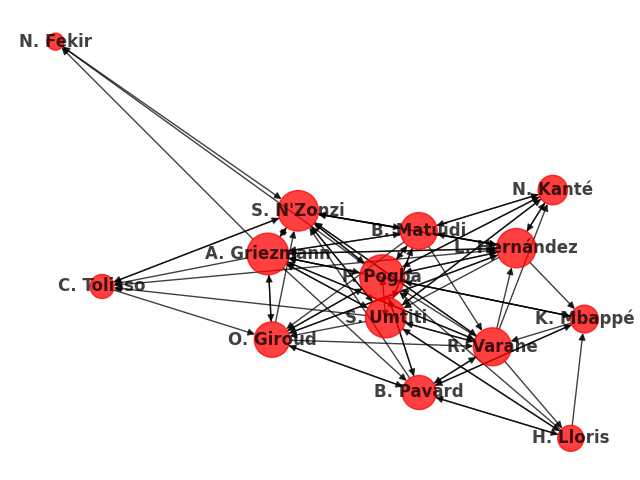
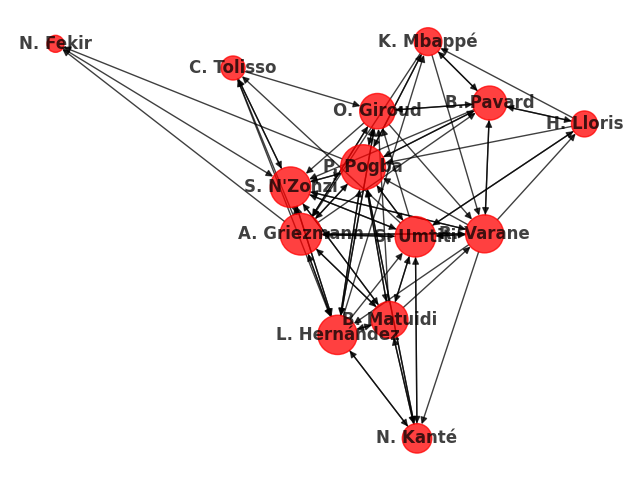
fixed pusnik shit

diff --git a/src/graph_construction.py b/src/graph_construction.py
@@ -211,12 +211,11 @@ if __name__ == '__main__':
     #         measures = social_network_analysis_digraph(G2, match_result, match_id, False, measures)
     #         measures = social_network_analysis_graph(G2, match_id, measures)
 
-   # G1, G2, match_result, measures = passing_networks(nation, matches, competitions, events, '2058017', measures)
-   # social_network_analysis_digraph(G1, match_result, '2058017', False, measures)
-   # social_network_analysis_graph(G1, '2058017', measures)
-   # plot_passing_networks(G1, G2, True)
+    G1, G2, match_result, measures = passing_networks(nation, matches, competitions, events, '2058017', measures)
+    social_network_analysis_digraph(G1, match_result, '2058017', False, measures)
+    social_network_analysis_graph(G1, '2058017', measures)
+    plot_passing_networks(G1, G2, True)
 
-    #
     print('\nmax_degree_centrality_avg')
     max_degree_centrality_avg = statistical_analysis_season_max(measures.listplayer_max_centrality_degree)
     print('\n max_in_degree_centrality_avg')
@@ -279,7 +278,7 @@ if __name__ == '__main__':
         'min_pagerank_avg': min_pagerank_avg
     }
 
-    with open('sna_tournament_player_france.json', 'w') as f:
+    with open('../results/sna_tournament_player_france.json', 'w') as f:
         json.dump(data_tournament, f, indent=4)
 
     print('avg density')

diff --git a/src/statistical_analysis.py b/src/statistical_analysis.py
@@ -1,4 +1,3 @@
-
 # function for calculate avg value order max
 def statistical_analysis_season_max(list):
     dict = {}
